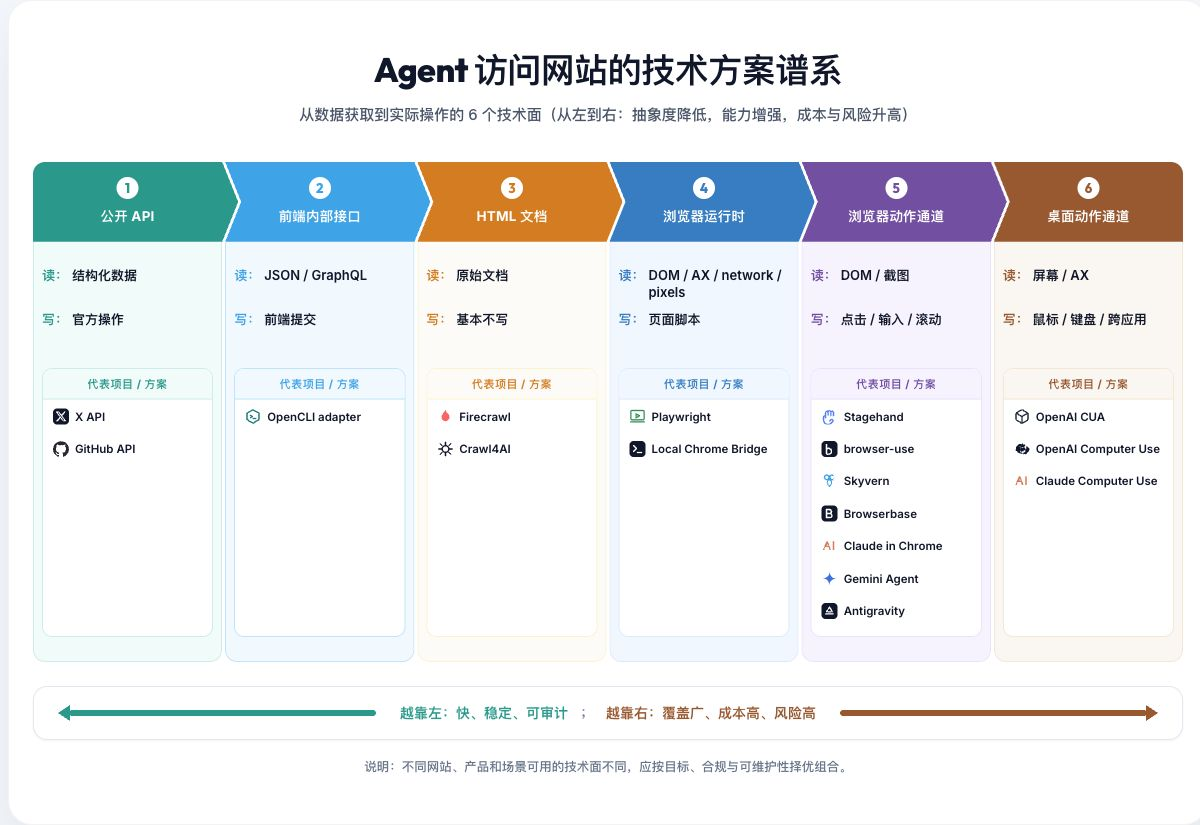
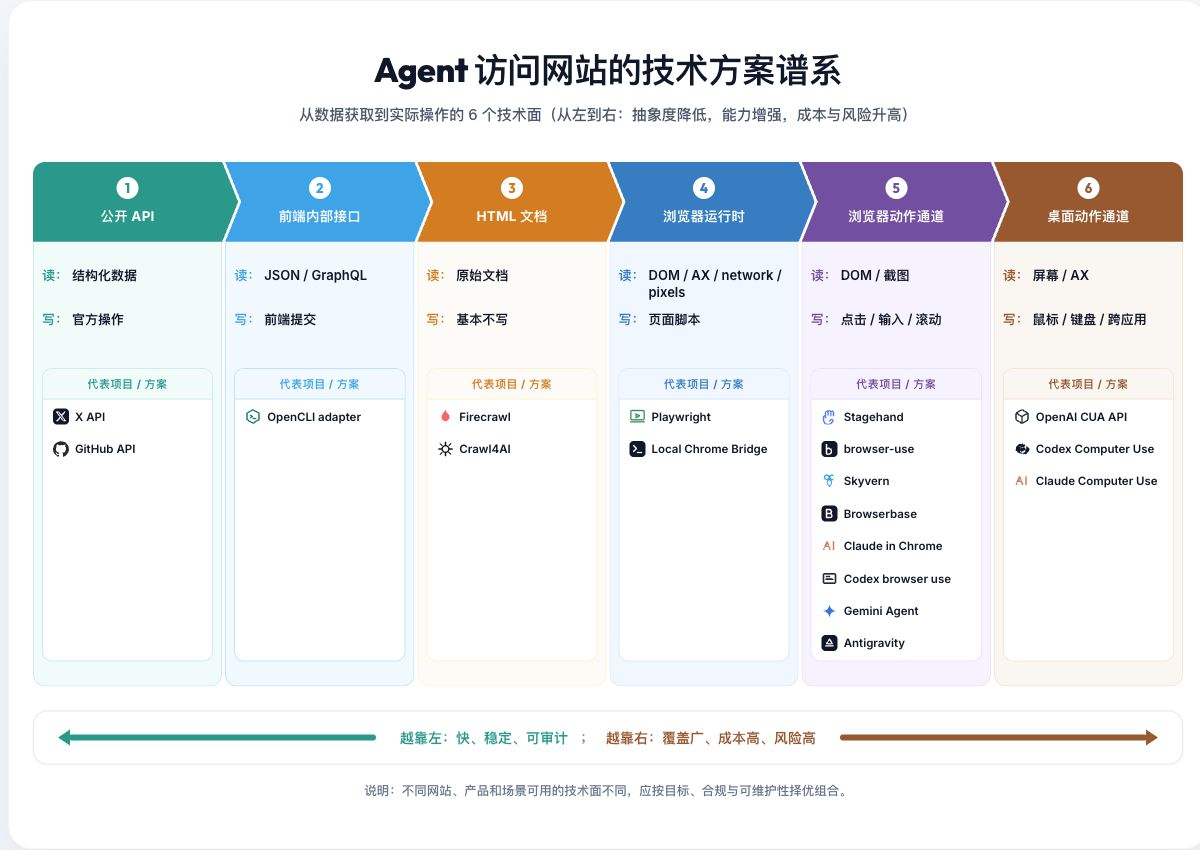
Clarify Claude and Codex app surfaces

diff --git a/index.html b/index.html
@@ -941,6 +941,12 @@
                   </span>
                   <span>Claude in Chrome</span>
                 </a>
+                <a href="https://openai.com/index/codex-for-almost-everything/" target="_blank" rel="noopener" class="project-item">
+                  <span class="project-icon brand-codex">
+                    <svg viewBox="0 0 24 24" fill="none" stroke="currentColor" stroke-width="2.5" stroke-linecap="round" stroke-linejoin="round"><rect x="3" y="5" width="18" height="14" rx="2"></rect><path d="M7 9h5M7 13h10"></path></svg>
+                  </span>
+                  <span>Codex browser use</span>
+                </a>
                 <a href="https://gemini.google/overview/agent/" target="_blank" rel="noopener" class="project-item">
                   <span class="project-icon brand-gemini">
                     <svg viewBox="0 0 24 24" fill="currentColor"><path d="M12 2c0 5.52-4.48 10-10 10 5.52 0 10 4.48 10 10 0-5.52 4.48-10 10-10-5.52 0-10-4.48-10-10z"/></svg>
@@ -983,13 +989,13 @@
                   <span class="project-icon brand-codex">
                     <svg viewBox="0 0 24 24" fill="none" stroke="currentColor" stroke-width="2" stroke-linecap="round" stroke-linejoin="round"><path d="M21 16V8a2 2 0 0 0-1-1.73l-7-4a2 2 0 0 0-2 0l-7 4A2 2 0 0 0 3 8v8a2 2 0 0 0 1 1.73l7 4a2 2 0 0 0 2 0l7-4A2 2 0 0 0 21 16z"></path><polyline points="3.27 6.96 12 12.01 20.73 6.96"></polyline><line x1="12" y1="22.08" x2="12" y2="12"></line></svg>
                   </span>
-                  <span>OpenAI CUA</span>
+                  <span>OpenAI CUA API</span>
                 </a>
                 <a href="https://platform.openai.com/docs/guides/tools-computer-use" target="_blank" rel="noopener" class="project-item">
                   <span class="project-icon brand-openai">
                     <svg viewBox="0 0 24 24" fill="currentColor"><path d="M21.7 10.3c-.1-.7-.5-1.3-1.1-1.6-.2-.1-.5-.2-.7-.2h-.4c-.1-.3-.3-.7-.5-1-.4-.6-1-1-1.7-1.2l-.6-.1c-.2-.3-.5-.6-.9-.8-.6-.3-1.4-.4-2.1-.2h-.2c-.3-.3-.6-.5-.9-.6-.7-.2-1.4-.1-2.1.2l-.3.2c-.3-.2-.7-.4-1-.5-.7-.2-1.4-.1-2.1.2-.6.3-1.1.8-1.4 1.4-.2.3-.3.7-.4 1v.2c-.3.1-.7.3-1 .5-.6.4-1 1-1.2 1.7-.1.4-.1.8 0 1.2v.3c-.3.2-.5.5-.6.9-.2.7-.1 1.4.2 2.1.3.6.8 1.1 1.4 1.4.3.2.7.3 1 .4v.2c.1.3.3.7.5 1 .4.6 1 1 1.7 1.2.3.1.6.1.9.1.2 0 .4 0 .6-.1.2.3.5.6.9.8.7.4 1.5.4 2.2.2h.2c.3.3.6.5.9.6.7.2 1.4.1 2.1-.2l.3-.2c.3.2.7.4 1 .5.7.2 1.4.1 2.1-.2.6-.3 1.1-.8 1.4-1.4.2-.3.3-.7.4-1v-.2c.3-.1.7-.3 1-.5.6-.4 1-1 1.2-1.7.1-.4.1-.8 0-1.2v-.3c.3-.2.5-.5.6-.9.2-.7.1-1.4-.2-2.1zm-8.8 8.6c-.4 0-.7-.2-.9-.5l-2.4-4.2c-.1-.2-.2-.5-.2-.7v-1.7l1.7-1h.2c.4 0 .7.2.9.5l2.4 4.2c.1.2.2.5.2.7v1.7l-1.9 1.3zm-3.3-1.9c-.2-.2-.3-.5-.3-.8V12c0-.4.2-.7.5-.9l3.6-2.1h1.7l-1 1.7V14c0 .4-.2.7-.5.9l-3.6 2.1h-.4zm6.7-.4l-3.6-2.1c-.2-.1-.5-.2-.8-.2H12c-.4 0-.7-.2-.9-.5L9 9.3v-1l3.6 2.1c.2.1.5.2.8.2H17v6.6l-1.1.4zm1.9-4.8c0 .4-.2.7-.5.9l-3.6 2.1h-1.7l1-1.7v-3.3c0-.4.2-.7.5-.9l3.6-2.1h.7zm-2.4-3.7l-2.4-4.2c-.2-.3-.5-.5-.9-.5h-.7L12 5.3c-.2.1-.5.2-.7.2H9.6c-.4 0-.7-.2-.9-.5L6.3 3.6h.4l3.6 2.1c.2.1.5.2.8.2H12c.4 0 .7.2.9.5l2.4 4.2h.1zm-6.2.5c-.2-.1-.5-.2-.7-.2h-1.7l1-1.7v3.3c0 .4.2.7.5.9l3.6 2.1h.3z"/></svg>
                   </span>
-                  <span>OpenAI Computer Use</span>
+                  <span>Codex Computer Use</span>
                 </a>
                 <a href="https://docs.anthropic.com/en/docs/agents-and-tools/tool-use/computer-use-tool" target="_blank" rel="noopener" class="project-item">
                   <span class="project-icon brand-claude">
@@ -1074,6 +1080,7 @@
             <li><strong>Local Chrome Bridge：</strong>不是数据源，而是复用本机 Chrome、登录态、cookies、DevTools/extension 通道的一类连接方式。OpenCLI 可以利用这类桥接，把临时浏览器探索沉淀为可复用 CLI 命令。</li>
             <li><strong>Browserbase / Steel / Hyperbrowser / Browserless：</strong>属于“浏览器运行基础设施”，不是数据源本身。它们负责托管云端浏览器 session、并发控制、Captcha 绕过、代理以及操作录制调试。</li>
             <li><strong>Stagehand / browser-use / Skyvern：</strong>是“浏览器动作通道”上的 AI 控制器。它们通过大模型多轮 loop 或自然语言提高操作的动态适应性，适合探索流程，不适合海量数据的低成本采集。</li>
+            <li><strong>Claude / Codex app：</strong>Claude Desktop/Cowork 的浏览器任务优先走 Claude in Chrome，跨桌面 app 才走 Computer Use；Codex app 是 coding command center，浏览器验证走 in-app browser / Chrome extension，跨桌面 app 才走 Codex Computer Use。</li>
             <li><strong>Gemini app / Antigravity：</strong>Google 主流 agent 产品不是 Project Mariner。Gemini Agent 是 Gemini app 里的多步任务入口，依赖 live web browser 和 Google apps；Antigravity 是开发者 agent 平台，横跨 editor / terminal / browser，其中 browser-use 部分才落在这张谱系的浏览器动作通道。</li>
           </ul>
         </div>
@@ -1159,6 +1166,7 @@
                   <span class="detailed-chip">browser-use</span>
                   <span class="detailed-chip">Skyvern</span>
                   <span class="detailed-chip">Claude in Chrome</span>
+                  <span class="detailed-chip">Codex browser use</span>
                   <span class="detailed-chip">Gemini Agent</span>
                   <span class="detailed-chip">Antigravity browser</span>
                 </div>
@@ -1170,7 +1178,8 @@
               <td>模拟系统级键鼠操作、窗口切换、跨应用联动等。</td>
               <td>
                 <div class="detailed-chips">
-                  <span class="detailed-chip">OpenAI CUA</span>
+                  <span class="detailed-chip">OpenAI CUA API</span>
+                  <span class="detailed-chip">Codex Computer Use</span>
                   <span class="detailed-chip">Claude Computer Use</span>
                   <span class="detailed-chip">RPA</span>
                 </div>
@@ -1190,6 +1199,7 @@
       <a href="https://docs.firecrawl.dev/" target="_blank" rel="noopener">Firecrawl</a>|
       <a href="https://docs.crawl4ai.com/" target="_blank" rel="noopener">Crawl4AI</a>|
       <a href="https://steel.dev/" target="_blank" rel="noopener">Steel.dev</a>|
+      <a href="https://openai.com/index/codex-for-almost-everything/" target="_blank" rel="noopener">Codex app</a>|
       <a href="https://openai.com/index/computer-using-agent/" target="_blank" rel="noopener">OpenAI CUA</a>|
       <a href="https://docs.anthropic.com/en/docs/agents-and-tools/tool-use/computer-use-tool" target="_blank" rel="noopener">Claude CU</a>|
       <a href="https://gemini.google/overview/agent/" target="_blank" rel="noopener">Gemini Agent</a>|

diff --git a/README.md b/README.md
@@ -35,7 +35,7 @@
 - 登录态强、交互复杂的网站：先用浏览器运行时和 Local Chrome Bridge 侦察，再用 Playwright/OpenCLI/adapter 固化。
 - 高变化、低频、跨应用、无 DOM 的任务：才上 Computer Use / RPA。
 - 不要把多轮 LLM 点击当成长期生产数据管道。它适合探索和兜底，不适合高吞吐采集。
-- App 不是技术层。Gemini Agent 是 Gemini app 里的多步任务入口，依赖 live web browser 和 Google apps；Antigravity 是开发者 agent 平台，横跨 editor / terminal / browser，其中 browser-use 部分才属于这张网站访问谱系。
+- App 不是技术层。Claude Desktop/Cowork 的浏览器任务优先走 Claude in Chrome，跨桌面 app 才走 Computer Use；Codex app 的浏览器验证走 in-app browser / Chrome extension，跨桌面 app 才走 Codex Computer Use；Gemini Agent 依赖 live web browser 和 Google apps；Antigravity 横跨 editor / terminal / browser，其中 browser-use 部分才属于这张网站访问谱系。
 
 ## Files
 
@@ -51,6 +51,8 @@
 - [Playwright](https://github.com/microsoft/playwright)
 - [Firecrawl](https://docs.firecrawl.dev/)
 - [Crawl4AI](https://docs.crawl4ai.com/)
+- [Codex app](https://openai.com/codex/)
+- [Codex for almost everything](https://openai.com/index/codex-for-almost-everything/)
 - [OpenAI Computer Use](https://platform.openai.com/docs/guides/tools-computer-use)
 - [Claude Computer Use](https://docs.anthropic.com/en/docs/agents-and-tools/tool-use/computer-use-tool)
 - [Claude in Chrome](https://support.claude.com/en/articles/12012173-getting-started-with-claude-for-chrome)
